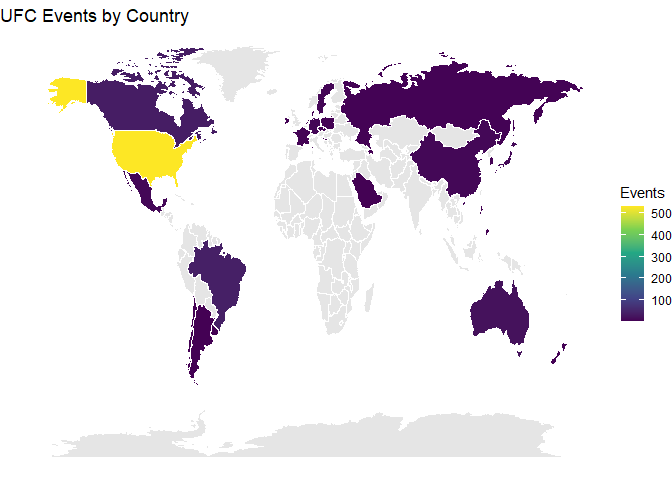
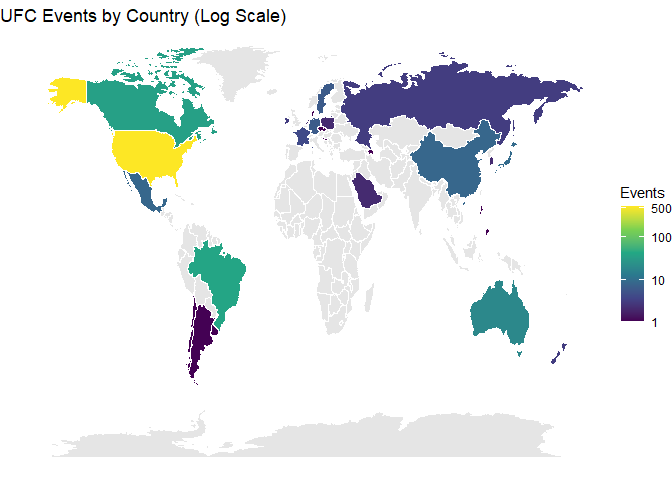
Implemented Martins suggestions

diff --git a/Projects/46Cent/raw_data_UFC/dariodemenus.md b/Projects/46Cent/raw_data_UFC/dariodemenus.md
@@ -1,22 +1,21 @@
-    events <- read.csv("raw_events.csv")
-    fighters <- read.csv("raw_fighters.csv")
-    fights <- read.csv("raw_fights.csv")
-    fights_detailed <- read.csv("raw_fights_detailed.csv")
+    # Use read_csv with universal name repair to maintain compatibility with existing column references (e.g., replacing spaces with dots)
+    events <- read_csv("raw_events.csv", na = c("", "NA", "--"), name_repair = "universal")
+    fighters <- read_csv("raw_fighters.csv", na = c("", "NA", "--"), name_repair = "universal")
+    fights <- read_csv("raw_fights.csv", na = c("", "NA", "--"), name_repair = "universal")
+    fights_detailed <- read_csv("raw_fights_detailed.csv", na = c("", "NA", "--"), name_repair = "universal")
 
     clean_height <- function(h) {
       # Convert 5' 11" format to inches
-      ifelse(h == "--", NA,
-             as.numeric(str_extract(h, "^\\d+")) * 12 + 
-             as.numeric(str_extract(h, "\\d+(?=\")")))
+      # Note: NAs are now handled in read_csv
+      as.numeric(str_extract(h, "^\\d+")) * 12 + 
+      as.numeric(str_extract(h, "\\d+(?=\")"))
     }
 
     clean_weight <- function(w) {
-      # Remove ' lbs.' and convert to numeric
       as.numeric(str_remove(w, " lbs."))
     }
 
     clean_reach <- function(r) {
-      # Remove inches symbol
       as.numeric(str_remove(r, "\""))
     }
 
@@ -27,24 +26,18 @@
         Weight_lbs = clean_weight(Wt.),
         Reach_in = clean_reach(Reach),
         Total_Fights = W + L + D,
-        # ---------------------------------------------------------
-        # IMPLEMENTATION OF GABRIEL'S SUGGESTION
         # Laplace Smoothing: (Wins + 1) / (Wins + Losses + 2)
-        # This prevents 1.0 ratios for fighters with few fights 
-        # and handles division by zero automatically.
-        # ---------------------------------------------------------
         WL_Ratio = (W + 1) / (W + L + 2)
       ) %>%
-      filter(!is.na(Weight_lbs))
+      drop_na(Weight_lbs) # Replaced filter(!is.na(...)) as suggested
 
-    # Assign Standard Weight Classes for grouping
-    # We map each fighter's weight to the nearest standard UFC weight class
-    define_class <- function(w) {
-      classes <- c(115, 125, 135, 145, 155, 170, 185, 205, 265)
-      classes[which.min(abs(classes - w))]
-    }
+    # Assign Standard Weight Classes
+    # We define breaks at the midpoints between classes to find the nearest class using findInterval
+    classes <- c(115, 125, 135, 145, 155, 170, 185, 205, 265)
+    midpoints <- (classes[-1] + classes[-length(classes)]) / 2
+    breaks <- c(-Inf, midpoints, Inf)
 
-    fighters_clean$Weight_Class_Bin <- sapply(fighters_clean$Weight_lbs, define_class)
+    fighters_clean$Weight_Class_Bin <- classes[findInterval(fighters_clean$Weight_lbs, breaks)]
 
     # Calculate Height-to-Reach Ratio
     fighters_clean <- fighters_clean %>%
@@ -54,13 +47,12 @@
       mutate(
         Date = mdy(Date),
         Year = year(Date),
-        # Split location string by comma
-        Location_Clean = str_split(Location, ", "),
-        # The last element is the Country
-        Country = map_chr(Location_Clean, tail, 1),
-        # If Country is USA, the second to last element is the State
-        State = map_chr(Location_Clean, ~ifelse(length(.x) > 1 & tail(.x, 1) == "USA", 
-                                                nth(.x, -2), NA))
+        # Extract Country: Everything after the last comma, trimmed of whitespace
+        Country = str_trim(str_extract(Location, "[^,]+$")),
+        # Extract State: If Country is USA, take the part before the last comma
+        State = ifelse(Country == "USA", 
+                       str_trim(str_extract(Location, "(?<=, )[^,]+(?=, USA)")), 
+                       NA)
       )
 
     # Fix Country names for map matching
@@ -104,20 +96,19 @@
       group_by(Weight_Class_Bin) %>%
       summarise(Mean_WL = mean(WL_Ratio, na.rm = TRUE))
 
-    # Find Best Fighter per Class (Must have at least 5 fights)
-    best_fighters <- fighters_clean %>%
+    # Pipeline to find best fighters and plot immediately
+    fighters_clean %>%
       filter(Total_Fights >= 5) %>%
       group_by(Weight_Class_Bin) %>%
       arrange(desc(WL_Ratio), desc(Total_Fights)) %>%
       slice(1) %>%
       select(Weight_Class_Bin, Name = First, Last, Top_WL = WL_Ratio) %>%
-      mutate(FullName = paste(Name, Last))
-
-    # Join Data for Plotting
-    plot1_data <- left_join(best_fighters, class_means, by = "Weight_Class_Bin") %>%
-      pivot_longer(cols = c(Top_WL, Mean_WL), names_to = "Type", values_to = "Ratio")
-
-    ggplot(plot1_data, aes(x = as.factor(Weight_Class_Bin), y = Ratio, fill = Type)) +
+      mutate(FullName = paste(Name, Last)) %>%
+      # Join with means
+      left_join(class_means, by = "Weight_Class_Bin") %>%
+      pivot_longer(cols = c(Top_WL, Mean_WL), names_to = "Type", values_to = "Ratio") %>%
+      # Plot directly
+      ggplot(aes(x = as.factor(Weight_Class_Bin), y = Ratio, fill = Type)) +
       geom_bar(stat = "identity", position = "dodge") +
       labs(title = "Top Fighter W/L Ratio vs Division Mean",
            x = "Weight Class (lbs)", y = "Win/Loss Ratio", fill = "Metric") +
@@ -140,15 +131,16 @@
     # World Map
     world_data <- map_data("world")
     country_counts <- events_clean %>% count(Country)
-    # Match USA name
-    country_counts$Country[country_counts$Country == "USA"] <- "USA"
 
     map_data_joined <- left_join(world_data, country_counts, by = c("region" = "Country"))
 
     ggplot(map_data_joined, aes(long, lat, group = group, fill = n)) +
       geom_polygon(color = "white", linewidth = 0.1) +
-      scale_fill_viridis_c(na.value = "grey90", name = "Events") +
-      labs(title = "UFC Events by Country") +
+      # Log scaling applied here with readable breaks
+      scale_fill_viridis_c(na.value = "grey90", name = "Events",
+                           trans = "log",
+                           breaks = c(1, 10, 100, 500)) +
+      labs(title = "UFC Events by Country (Log Scale)") +
       theme_void()
 
 ![](dariodemenus_files/figure-markdown_strict/Visualization_3-1.png)
@@ -164,8 +156,11 @@
 
     ggplot(us_map_joined, aes(long, lat, group = group, fill = n)) +
       geom_polygon(color = "white") +
-      scale_fill_viridis_c(na.value = "grey90", name = "Events") +
-      labs(title = "UFC Events by US State") +
+      # Log scaling applied here as well
+      scale_fill_viridis_c(na.value = "grey90", name = "Events",
+                           trans = "log",
+                           breaks = c(1, 5, 20, 100)) +
+      labs(title = "UFC Events by US State (Log Scale)") +
       theme_void()
 
 ![](dariodemenus_files/figure-markdown_strict/Visualization_3-2.png)
@@ -186,9 +181,29 @@
       geom_line(color = "darkred", linewidth = 1) +
       labs(title = "Expansion of the Sport: Events per Year",
            x = "Year", y = "Number of Events") +
-      theme_minimal()
+          theme_minimal()
 
 ![](dariodemenus_files/figure-markdown_strict/Visualization_5-1.png)
+
+    # Function to extract the last number from string "86 of 165"
+    extract_strikes <- function(s) {
+      as.numeric(str_extract(s, "\\d+$"))
+    }
+
+    # Prepare detailed fights for merging
+    # We sum strikes for each fighter across all their fights
+    strikes_1 <- fights_detailed %>% 
+      select(Fight_Id, Name = Fighter_1, Strikes_Raw = `Total.Str._1`)
+    strikes_2 <- fights_detailed %>% 
+      select(Fight_Id, Name = Fighter_2, Strikes_Raw = `Total.Str._2`)
+
+    # Combine and sum up
+    all_strikes <- bind_rows(strikes_1, strikes_2) %>%
+      mutate(Total_Strikes = extract_strikes(Strikes_Raw)) %>%
+      group_by(Name) %>%
+      summarise(Career_Strikes = sum(Total_Strikes, na.rm = TRUE)) %>%
+      arrange(desc(Career_Strikes)) %>%
+      top_n(10, Career_Strikes)
 
     ggplot(all_strikes, aes(x = reorder(Name, Career_Strikes), y = Career_Strikes, fill = Name)) +
       geom_col(show.legend = FALSE) +
